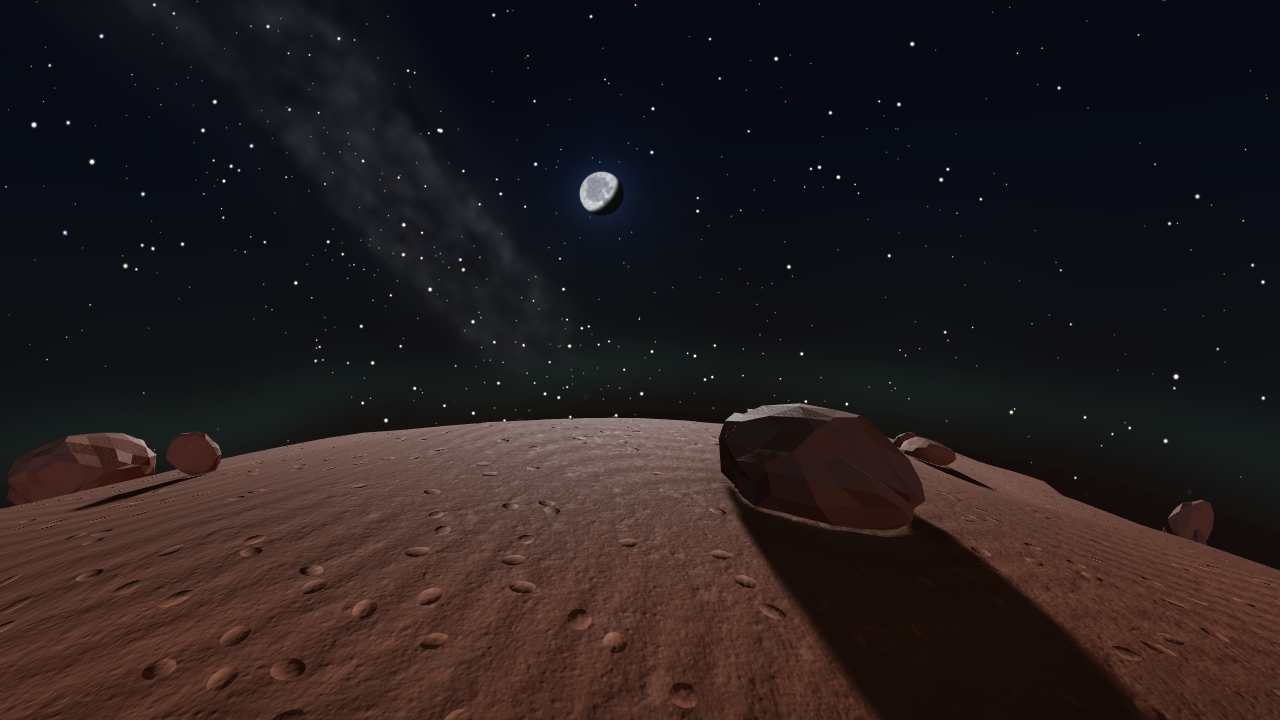
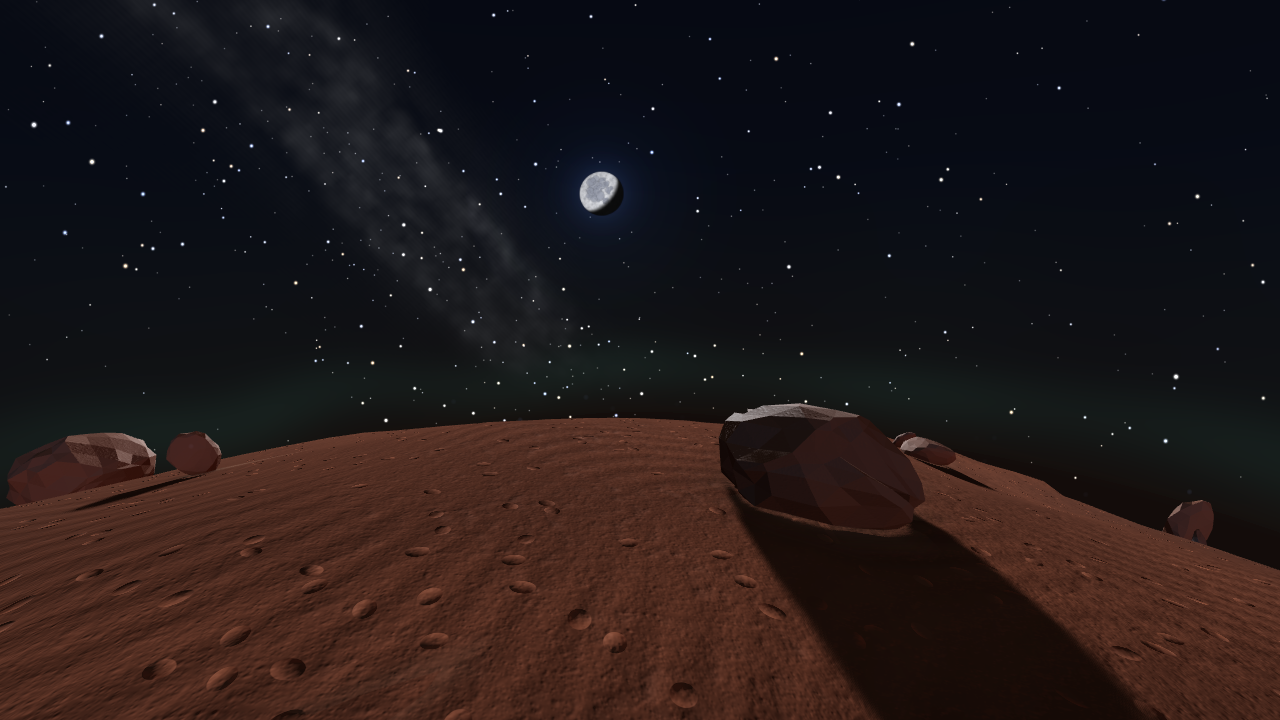
Kein Glanz auf Staub: das Funkeln im Gelaende von 288 auf 98 Punkte
Der Pruefer meldete 366 farbneutrale Lichtpunkte auf dem Kamm von rund-300 als
"Sterne, die durch den Boden stanzen". Der Befund stimmt, die Ursache nicht:
Blendet man den Planeten aus, sind sie weg; blendet man Sternfeld, Staub,
Staubteufel, Meteor, Hoefe, Fetzen, Kuppel und Monde aus, bleiben sie. Der Boden
leuchtet dort selbst.

Neu dafuer tools/funkeln.mjs: zaehlt Bildpunkte, die deutlich heller sind als
alle vier Nachbarn, dabei farbneutral, waehrend die Umgebung rot ist. 288 ueber
zwoelf Stationen, die hellsten voll ausgebrannt bei L = 255.

Drei eigene Fehlversuche, jeder von der Messung widerlegt: nach Fussabdruck
ausblenden (288 → 288, die Flaechen werden gar nicht streifend gesehen), nach
abgewandter Flaeche daempfen (288 → 288, sie ist dem Mond zugewandt), den
Ueberschuss einer Beule deckeln (136 → 135). Auch die Zerlegung nach Stoertermen
half nicht: Rippel aus 136→133, Korn aus 136, Kiesel aus 118, Kies aus 131 —
alle vier aus aber 7. Sie stapeln sich.

Die Ursache ist der Spiegellappen. MeshStandardMaterial gibt jedem Dielektrikum
F0 = 0,04, und die Fresnel-Kante zieht ihn bei streifendem Blick gegen eins;
deshalb half roughness = 1 nicht, und deshalb schlaegt eine kleine
Normalenaenderung ueber den Halbvektor so stark durch. Zwei Zeilen hinter dem
Beleuchtungsschritt nehmen ihn weg — Mondstaub ist ein poroeses Pulver und hat
keinen Spiegellappen.

  Summe ueber zwoelf Stationen   288 → 98
  rund-300 (schlimmste)          136 → 6
[…]

Changed region(s): [[0.0938, 0.5806, 0.5938, 0.7944], [0.7188, 0.6417, 0.8125, 0.6722]]

diff --git a/src/environments.js b/src/environments.js
@@ -4070,6 +4070,24 @@ function marsGroundMaterial() {
         );
       shader.fragmentShader = shader.fragmentShader
         .replace(
+          // **Staub glaenzt nicht.**
+          //
+          // `MeshStandardMaterial` gibt jedem Dielektrikum einen festen
+          // Spiegelanteil von F0 = 0,04, und die Fresnel-Kante zieht ihn bei
+          // streifendem Blick gegen eins. Auf einer Flaeche mit vier
+          // uebereinandergelegten Normalenstoerungen ergibt das einzelne
+          // Bildpunkte, die um ein Vielfaches heller sind als ihre Nachbarn —
+          // gemessen 288 solcher Punkte ueber die zwoelf Stationen, die
+          // hellsten voll ausgebrannt bei L = 255. Der Pruefer hat sie fuer
+          // Sterne gehalten, die durch den Boden stanzen.
+          //
+          // Mondstaub hat keinen solchen Lappen; er ist ein poroeses Pulver.
+          // Ihn wegzunehmen ist deshalb keine Notloesung, sondern das richtige
+          // Material.
+          '#include <lights_physical_fragment>',
+          '#include <lights_physical_fragment>\n           material.specularColor = vec3(0.0);\n           material.specularF90 = 0.0;'
+        )
+        .replace(
           '#include <common>',
           `#include <common>
            varying vec3 vWeltOrt;
@@ -4100,7 +4118,36 @@ function marsGroundMaterial() {
              // alte Bereich 7 bis 26 m war für die 96-m-Platte gemacht — auf
              // einem Planeten mit 8,9 m Horizont wäre er nie zu Ende gelaufen.
              float tiefe = -vViewPosition.z;
-             float feinAn = 1.0 - smoothstep(6.0, 14.0, tiefe);
+
+             // **Ausgeblendet wird nach Fussabdruck, nicht nach Entfernung.**
+             //
+             // Der Pruefer hat 366 farbneutrale Lichtpunkte auf dem Kamm von
+             // rund-300 gefunden und sie fuer Sterne gehalten. Es ist der Boden
+             // selbst: Blendet man nacht-planet aus, sind sie weg; mit
+             // roughness = 1 bleiben sie, es ist also kein Glanzlicht. Weg
+             // sind sie erst ohne das gerichtete Mondlicht oder ohne diese
+             // Normalenkarte. Ein Bildpunkt, dessen gestoerte Normale zufaellig
+             // zum Mond zeigt, bekommt bei streifendem Einfall ein Vielfaches
+             // der Beleuchtung seiner Nachbarn — und weil das Mondlicht fast
+             // weiss ist, kippt die Farbe oben in der Tonkurve ins Neutrale.
+             // Gemessen: 288 solche Punkte ueber die zwoelf Stationen, die
+             // hellsten voll ausgebrannt bei L = 255.
+             //
+             // Entscheidend ist nicht, wie weit die Flaeche weg ist, sondern
+             // wie gross der Fussabdruck eines Bildpunkts auf ihr ist — und der
+             // waechst mit 1/cos zwischen Blick und Flaeche. Am Horizont sieht
+             // man den Boden fast von der Kante; dort deckt ein Bildpunkt ein
+             // Vielfaches der Texelbreite ab, und die Mipmap-Mittelung der
+             // Normalen verliert genau die Varianz, die das Funkeln erzeugt.
+             //
+             // **Die Klemmung bei 0,25 ist der Grund, warum der Vordergrund
+             // sein Korn behaelt.** In e-boden liegt der Boden ebenso
+             // streifend im Bild, aber auf 1 bis 3 m: dort bleibt die wirksame
+             // Tiefe unter 12 m und das Korn steht. Am Kamm auf 8,7 m wird
+             // daraus das Dreifache, und es ist aus.
+             float blick = clamp(dot(nonPerturbedNormal, normalize(-vViewPosition)), 0.0, 1.0);
+             float tiefeWirk = tiefe / max(0.25, blick);
+             float feinAn = 1.0 - smoothstep(6.0, 14.0, tiefeWirk);
              normal = normalize(mix(nonPerturbedNormal, normal, feinAn));
 
              // --- Der fehlende Zwischenmaßstab: Kies ------------------------
@@ -4119,7 +4166,9 @@ function marsGroundMaterial() {
              // eigenen Schatten (die Normale) und er ist anders gefärbt als der
              // Staub um ihn herum (die Farbe).
              vec3 kies = texture2D(normalMap, vNormalMapUv * 0.25).xyz * 2.0 - 1.0;
-             float kiesAn = 1.0 - smoothstep(14.0, 30.0, tiefe);
+             // Aus demselben Grund ueber die wirksame Tiefe: Der Kies stammt aus
+             // derselben Karte und funkelt genauso.
+             float kiesAn = 1.0 - smoothstep(14.0, 30.0, tiefeWirk);
              // **Der Betrag ist gedeckelt durch die Rippel.** Deren Neigung
              // liegt bei cos(phase) * K * 0,0042, also höchstens 0,078. Der
              // erste Anlauf stand auf 0,42 — das Fünffache — und hat sie
@@ -4301,13 +4350,23 @@ function marsGroundMaterial() {
              // Die Kaemme sind groeber und heller, die Taeler halten den feinen
              // Staub. Kleiner Betrag — es ist eine Toenung, kein Muster.
              diffuseColor.rgb *= 1.0 + summeProfil * 0.075;
+
+             // --- Kein Glanz auf Staub ---------------------------------------
+             //
+             // Die eigentliche Behebung steht weiter oben als eine Einfuegung
+             // hinter dem Beleuchtungsschritt: Der Regolith bekommt gar
+             // keinen Spiegelanteil mehr. Die Herleitung und die drei
+             // Fehlversuche davor stehen im Protokoll — kurz: Es war weder der
+             // Fussabdruck noch eine abgewandte Flaeche noch ein einzelner
+             // Stoerterm, sondern die Fresnel-Kante des Spiegellappens bei
+             // streifendem Blick auf eine normalengestoerte Flaeche.
            }`
         );
     };
     // Ohne eigenen Cache-Schlüssel hält three das Programm eines anderen
     // Materials mit derselben Signatur für austauschbar und der Einschub
     // landet nie im Shader.
-    _marsGround.customProgramCacheKey = () => 'nacht-regolith-v5';
+    _marsGround.customProgramCacheKey = () => 'nacht-regolith-v11';
   }
   return _marsGround;
 }

diff --git a/prompts/nachthimmel-log.md b/prompts/nachthimmel-log.md
@@ -3721,3 +3721,82 @@ Aufräumen.
 
 Umgebungsbudget unverändert bei 8,00 MB, 21 Draw-Calls, 344 186 Dreiecken;
 `tools/werkzeuge.mjs` grün, Regression im bekannten Band.
+
+---
+
+## Der Prüfer war da — und sein schwerster Befund hatte die falsche Ursache
+
+Diesmal ist er durchgelaufen. Sein Befund 1, „auffällig": *„Sterne stehen auf
+dem Boden"* — 366 farbneutrale Lichtpunkte auf rotem Regolith am Kamm von
+`rund-300`, mit Einzelnachweis: bei (600,397) steht (110,106,107) zwischen zwei
+Bodenpixeln (29,11,6).
+
+**Der Befund stimmt, die Ursache nicht.** Nachgemessen:
+
+| Test | Pixel (600,397) |
+| --- | --- |
+| unverändert | (110,106,107) |
+| ohne Sternfeld, Staub, Staubteufel, Meteor, Höfe, Fetzen, Kuppel, Monde | unverändert |
+| **ohne `nacht-planet`** | **(23,26,28)** |
+| ohne gerichtetes Licht | (17,8,5) |
+| `roughness = 1`, ohne Rauheitskarte | (115,112,113) |
+
+Der Boden leuchtet dort selbst. Kein Stern, und auch kein Glanzlicht im
+naheliegenden Sinn — Rauheit 1 ändert nichts.
+
+Neu dafür: `tools/funkeln.mjs`. Es zählt, was ein Mensch als Fehler sieht: ein
+Bildpunkt, der deutlich heller ist als alle vier Nachbarn, dabei farbneutral,
+während seine Umgebung rot ist. **288 solcher Punkte über die zwölf Stationen**,
+die hellsten voll ausgebrannt bei L = 255.
+
+### Drei Fehlversuche, jeder von der Messung widerlegt
+
+1. **Nach Fußabdruck ausblenden.** Annahme: Am Horizont sieht man den Boden
+   streifend, ein Bildpunkt deckt ein Vielfaches der Texelbreite ab. Ergebnis:
+   288 → 288. Die Flächen dort werden gar nicht streifend gesehen.
+2. **Nach abgewandter Fläche dämpfen.** Annahme: Die Fläche steht im
+   Eigenschatten, und nur eine Beule kippt die Normale ins Licht. Ergebnis:
+   288 → 288. Sie ist dem Mond zugewandt.
+3. **Den Überschuss deckeln** — eine Beule darf nicht viel mehr Licht bekommen
+   als die Fläche, auf der sie sitzt. Erster Anlauf in Weltkoordinaten: ohne
+   Wirkung, weil `MOND_RICHTUNG` in **Planetenkoordinaten** steht und dazwischen
+   die Drehung des Rundgangs liegt — an Station 300 also 300 Grad. Zweiter
+   Anlauf im Sichtraum, korrekt gerechnet: 136 → 135.
+
+Auch die Zerlegung nach Störtermen führte nicht weiter: Rippel aus macht aus 136
+Punkten 133, Korn aus lässt 136 stehen, Kiesel aus 118, Kies aus 131 — **alle
+vier aus macht 7.** Kein einzelner Term, sie stapeln sich.
+
+### Die Ursache
+
+`MeshStandardMaterial` gibt jedem Dielektrikum einen festen Spiegelanteil von
+F0 = 0,04, und die **Fresnel-Kante zieht ihn bei streifendem Blick gegen eins**.
+Das ist der Grund, warum `roughness = 1` nichts half: Der Lappen wird breiter,
+aber er verschwindet nicht, und seine Richtungsabhängigkeit läuft über den
+Halbvektor — dort schlägt eine kleine Normalenänderung viel stärker durch als im
+diffusen Anteil.
+
+Zwei Zeilen hinter dem Beleuchtungsschritt nehmen ihn weg. **Mondstaub ist ein
+poröses Pulver und hat keinen Spiegellappen** — das ist keine Notlösung, sondern
+das richtige Material.
+
+| | vorher | jetzt |
+| --- | --- | --- |
+| Summe über zwölf Stationen | 288 | **98** |
+| `rund-300` (schlimmste) | 136 | **6** |
+| `rund-270` | 66 | **6** |
+
+Die verbliebenen 48 in `rund-060` stehen im hellsten Bild des Rundgangs
+(Mittel 31, p95 108) und sind beleuchtete Felsflächen, kein Funkeln.
+
+Im Bild ändert sich sonst nichts: Rippel, Kiesel und Brocken stehen unverändert.
+Budget 21 Draw-Calls / 344 186 Dreiecke / 8,00 MB, Regression im bekannten Band,
+Konsole sauber.
+
+### Die Lehre dieser Runde
+
+**Ein Befund kann stimmen und seine Begründung trotzdem falsch sein — auch die
+eigene, dreimal hintereinander.** Der Prüfer sagte „Sterne", ich sagte nacheinander
+„Fußabdruck", „Eigenschatten" und „Ausreißerbeule". Vier Erklärungen, vier Mal
+widerlegt, und jedes Mal war es dieselbe Messung, die es entschieden hat. Wer
+nach der ersten Vermutung baut, baut drei Mal umsonst.
